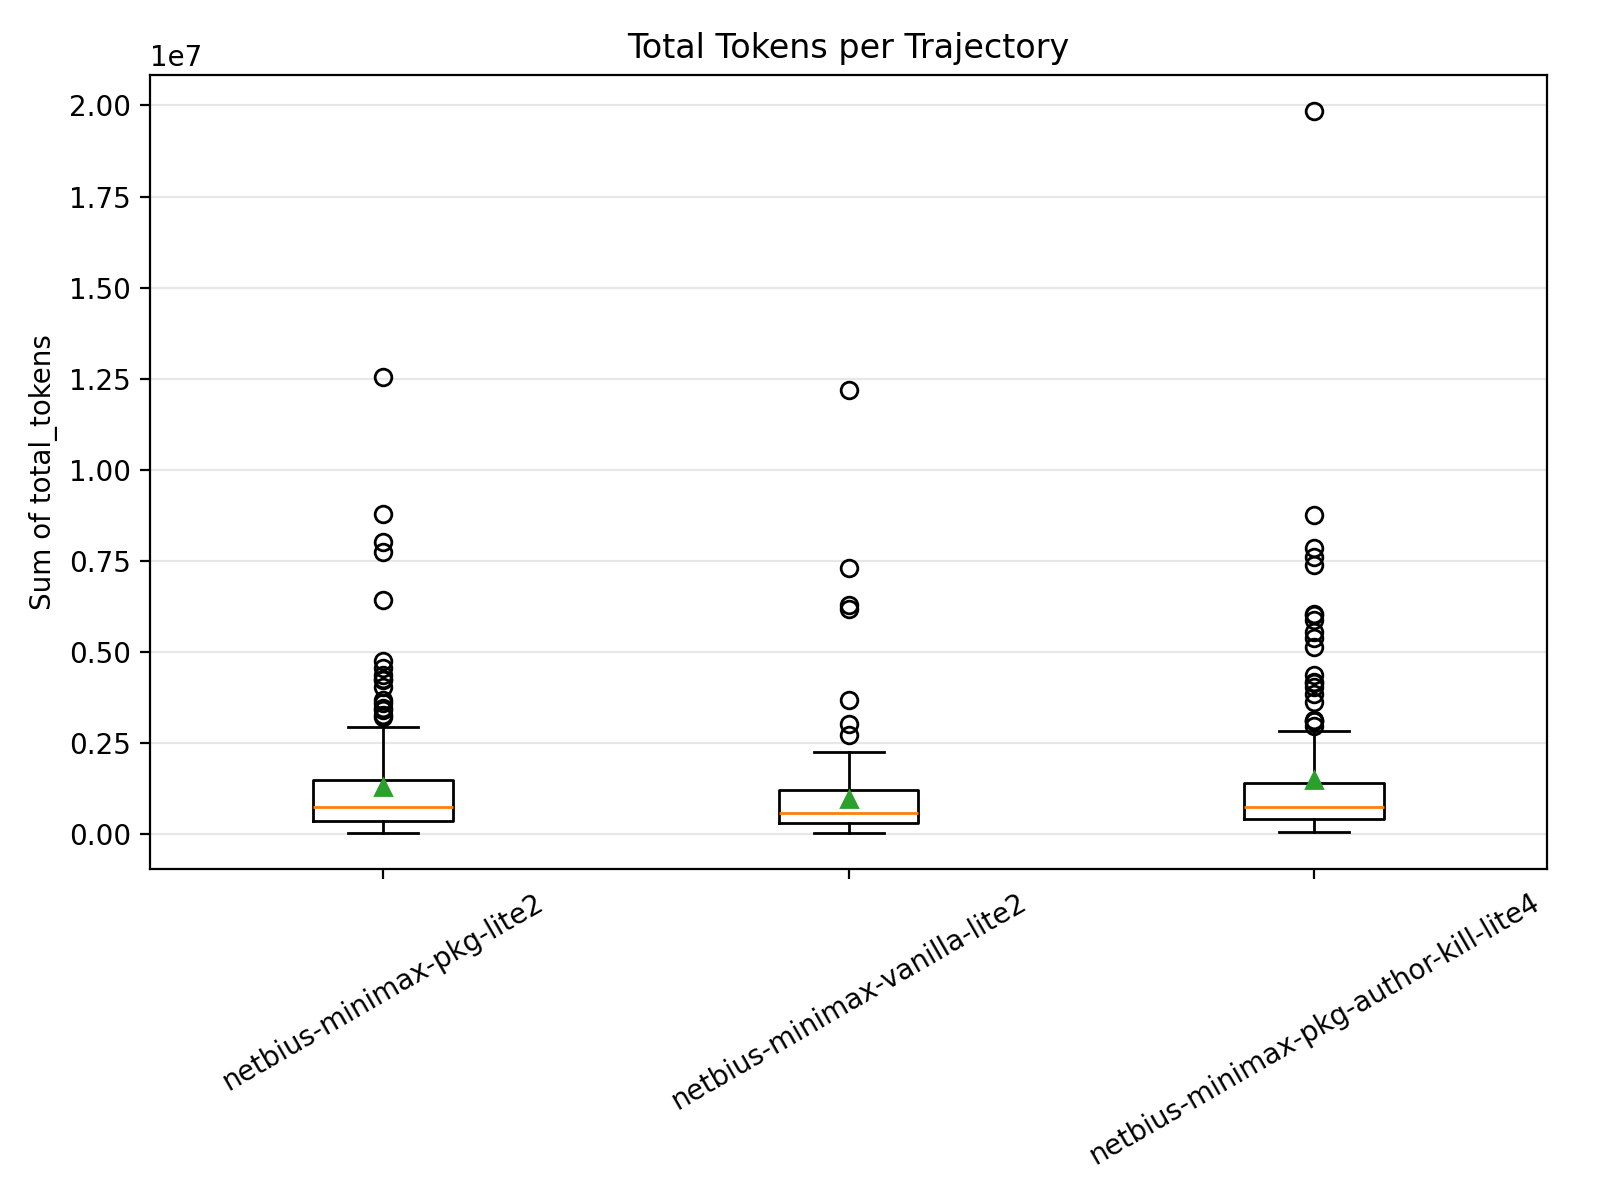
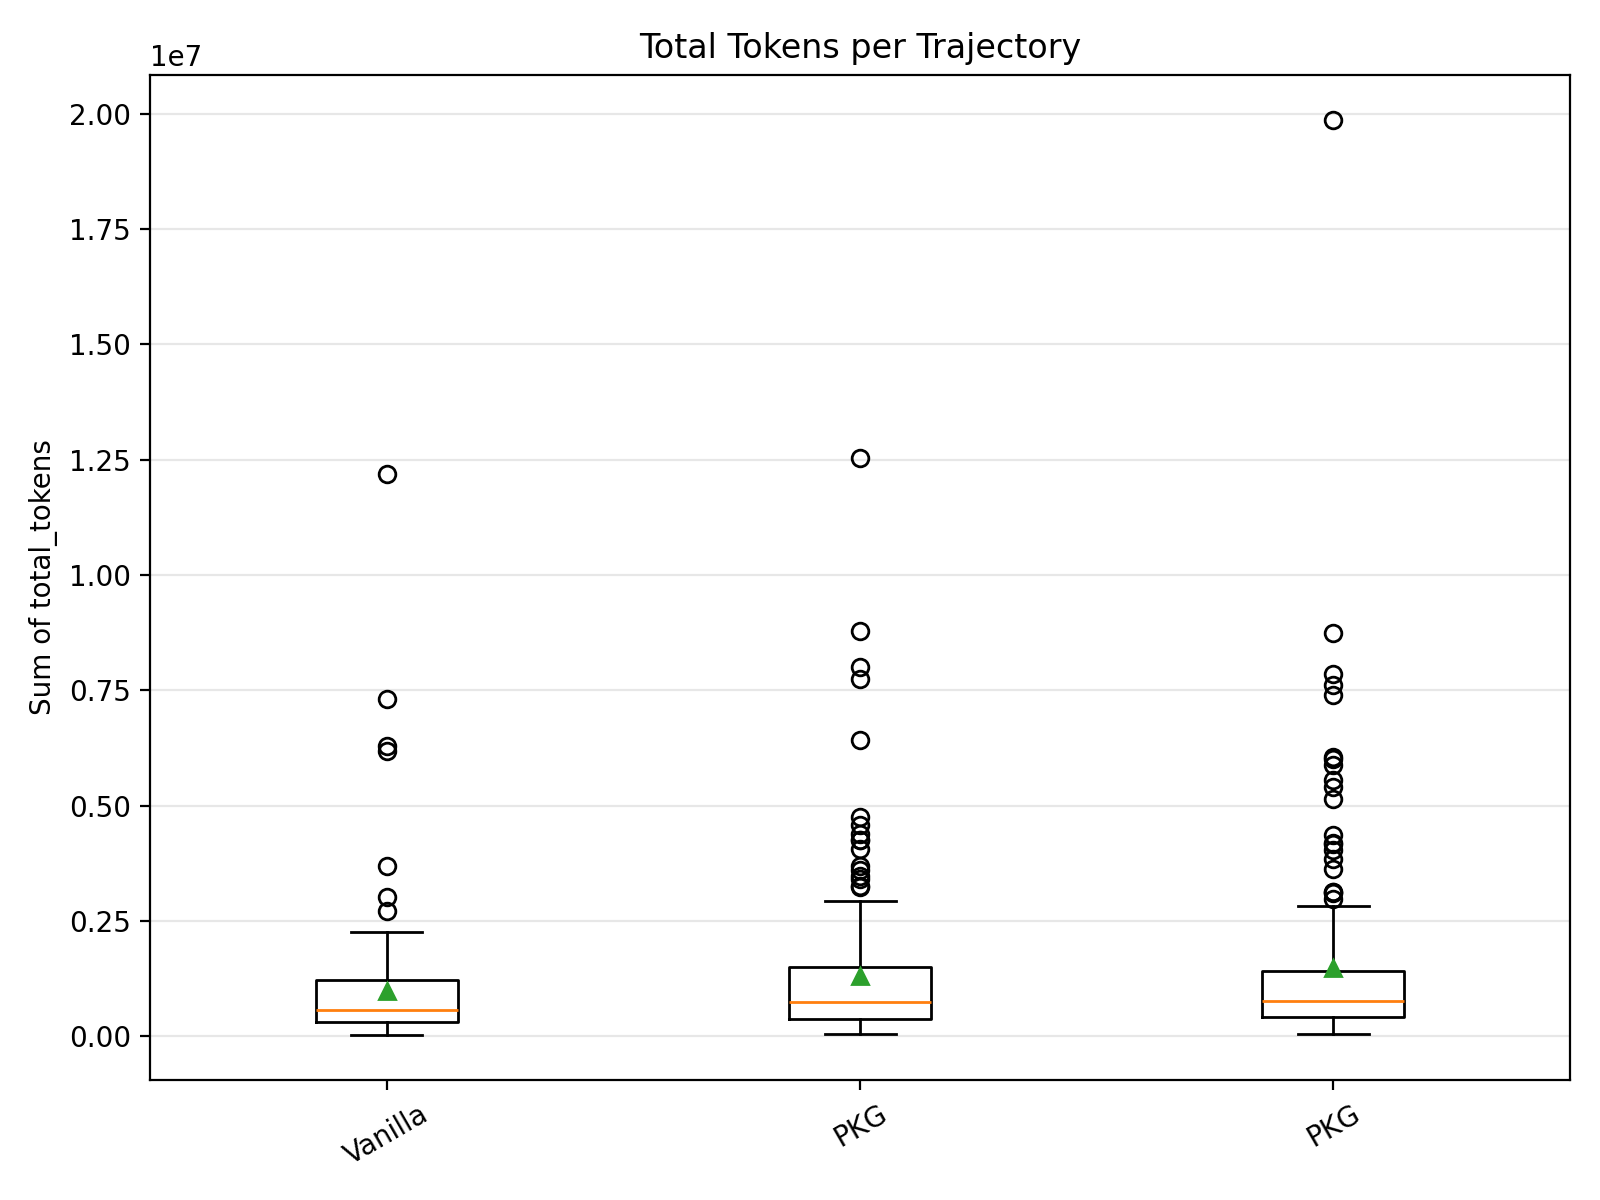
sync

diff --git a/scripts/plot_traj_tokens_boxplot.py b/scripts/plot_traj_tokens_boxplot.py
@@ -25,6 +25,12 @@ def trajectory_token_sums(folder):
         raise ValueError(f"No *.traj.json files found in {folder}")
     return [total_tokens_in_value(json.loads(path.read_text())) for path in traj_files]
 
+def get_labels_from_foldername(folder_name):
+    if "vanilla" in folder_name:
+        return "Vanilla"
+    if "pkg" in folder_name:
+        return "PKG"
+    return "Developer Profile"
 
 def plot_boxplot(token_sums, labels, output):
     os.environ.setdefault("MPLCONFIGDIR", tempfile.mkdtemp(prefix="matplotlib-"))
@@ -71,7 +77,7 @@ def main():
             raise ValueError(f"Not a directory: {folder}")
         sums = trajectory_token_sums(folder)
         token_sums.append(sums)
-        labels.append(folder.name)
+        labels.append(get_labels_from_foldername(folder.name))
         print(
             f"{folder}: {len(sums)} trajectories, total={sum(sums)}, "
             f"median={statistics.median(sums)}, min={min(sums)}, max={max(sums)}"
